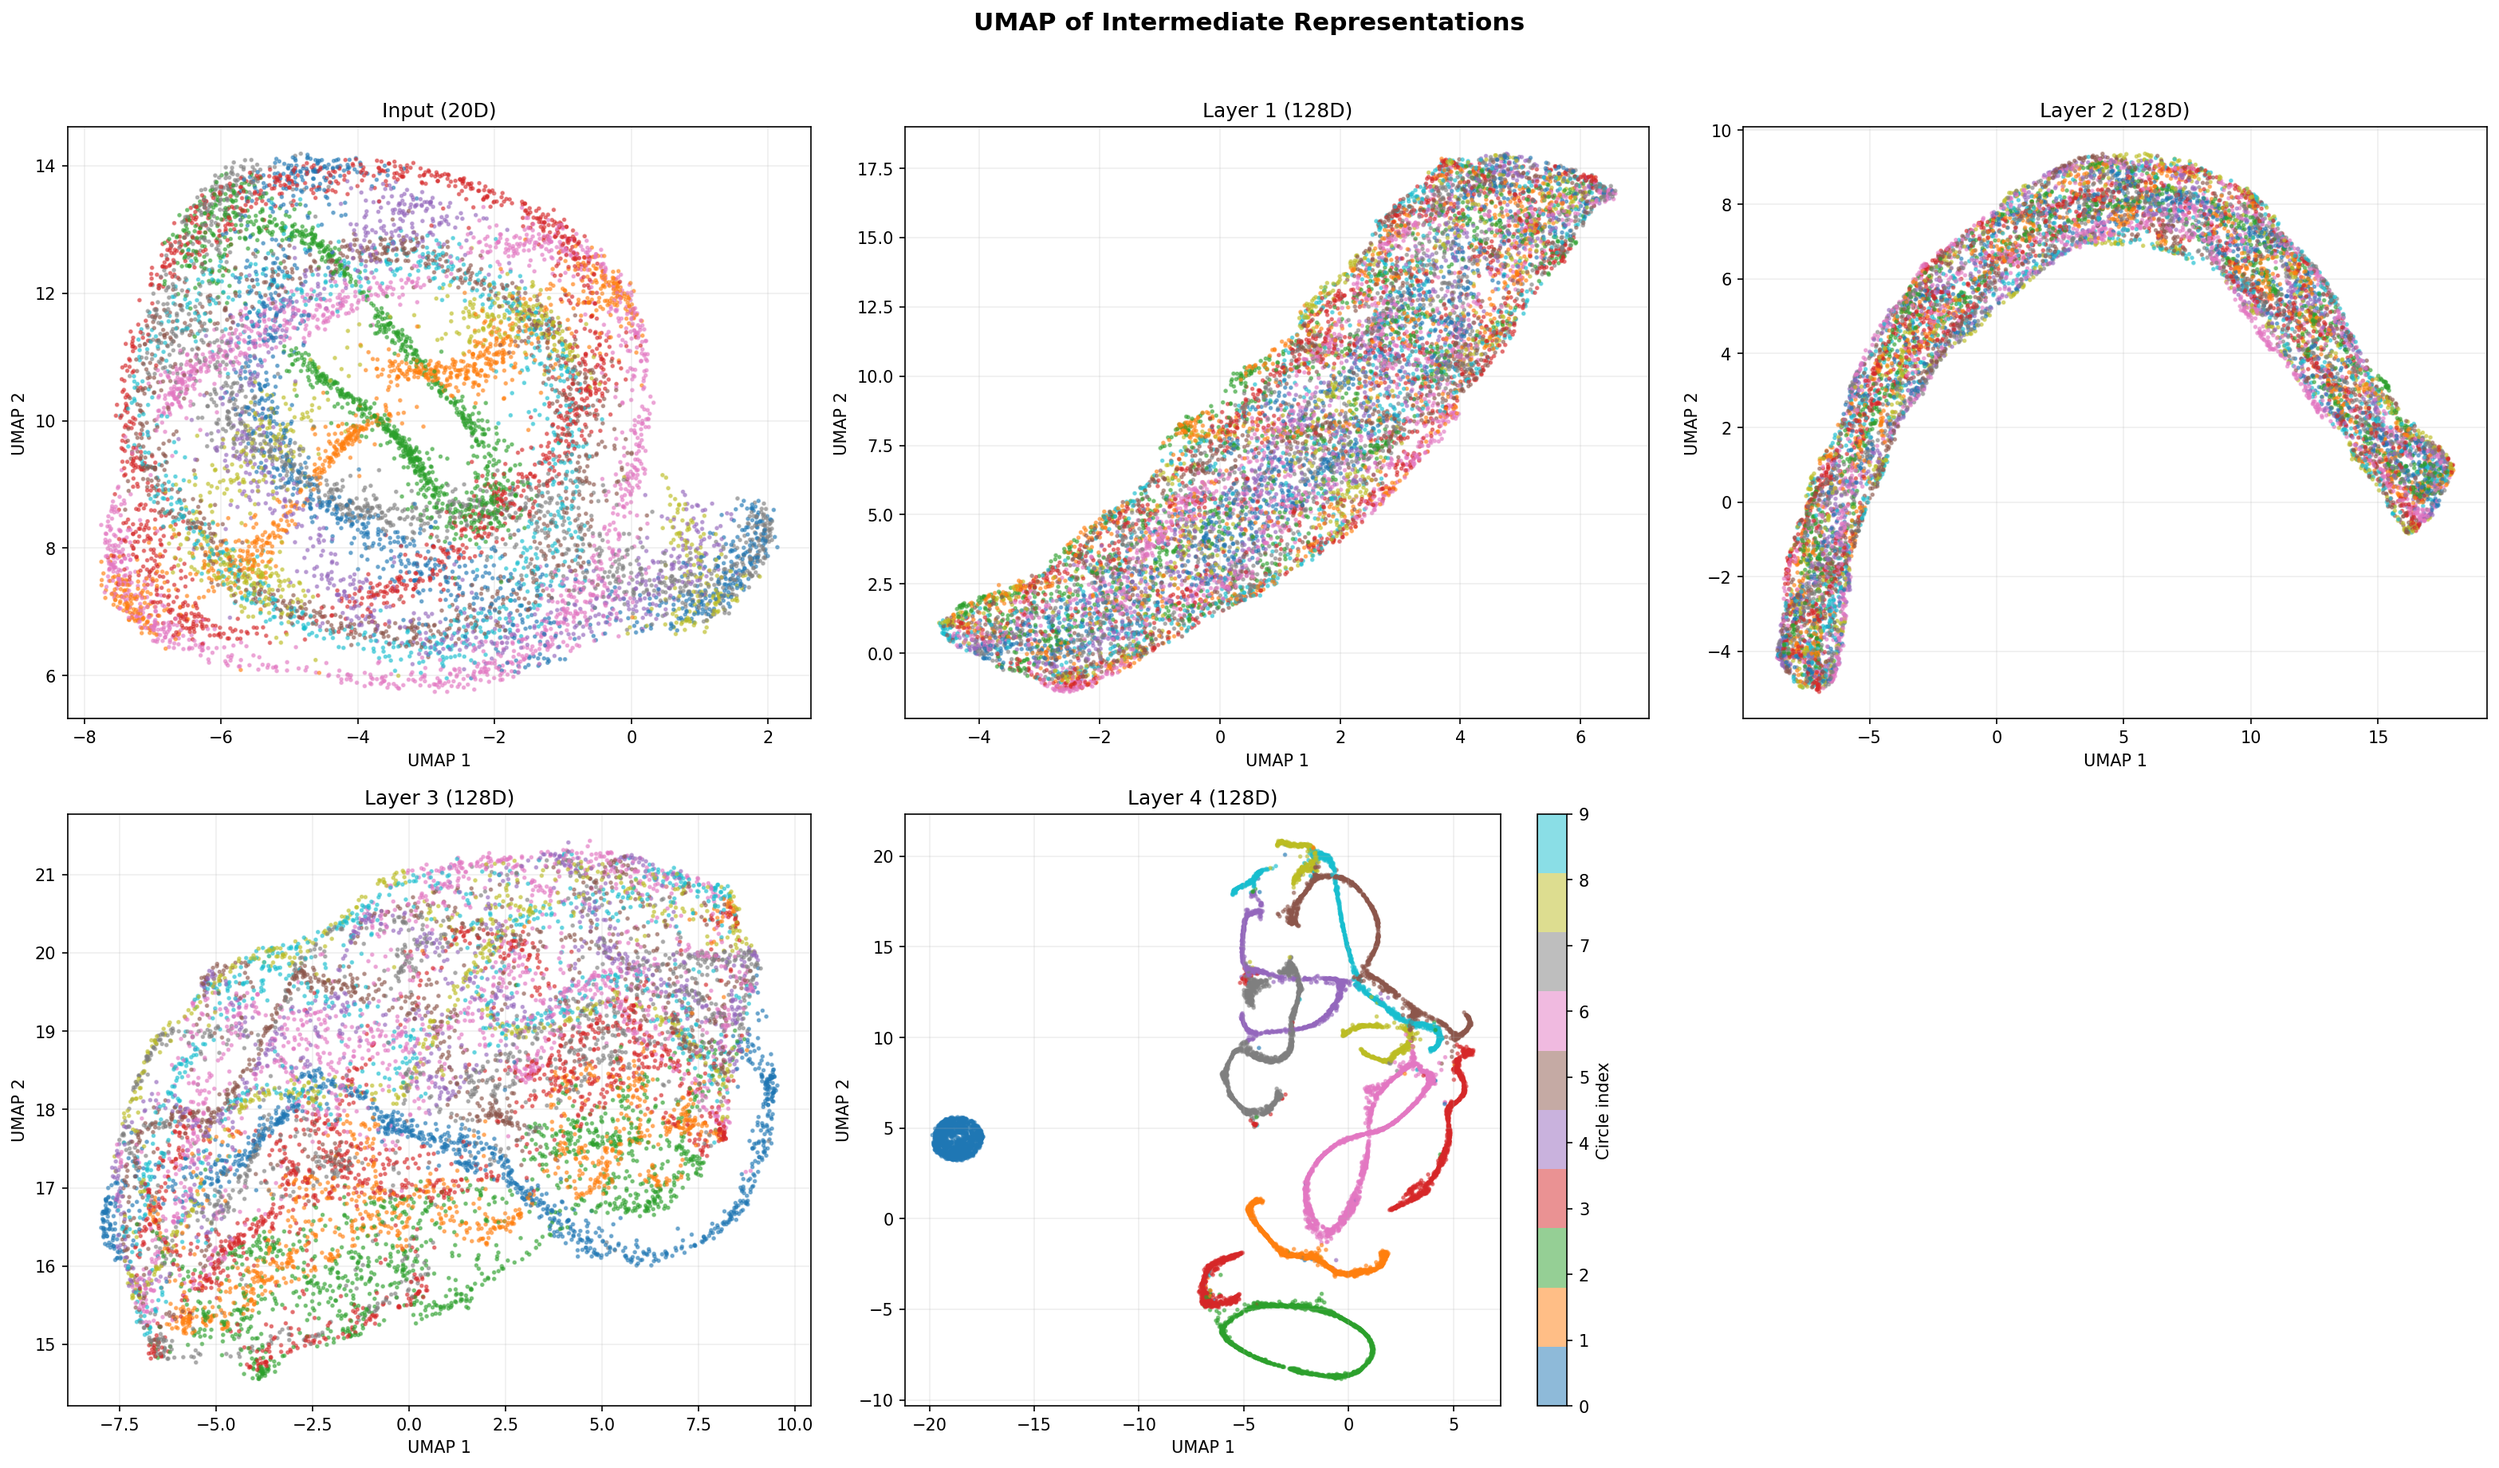
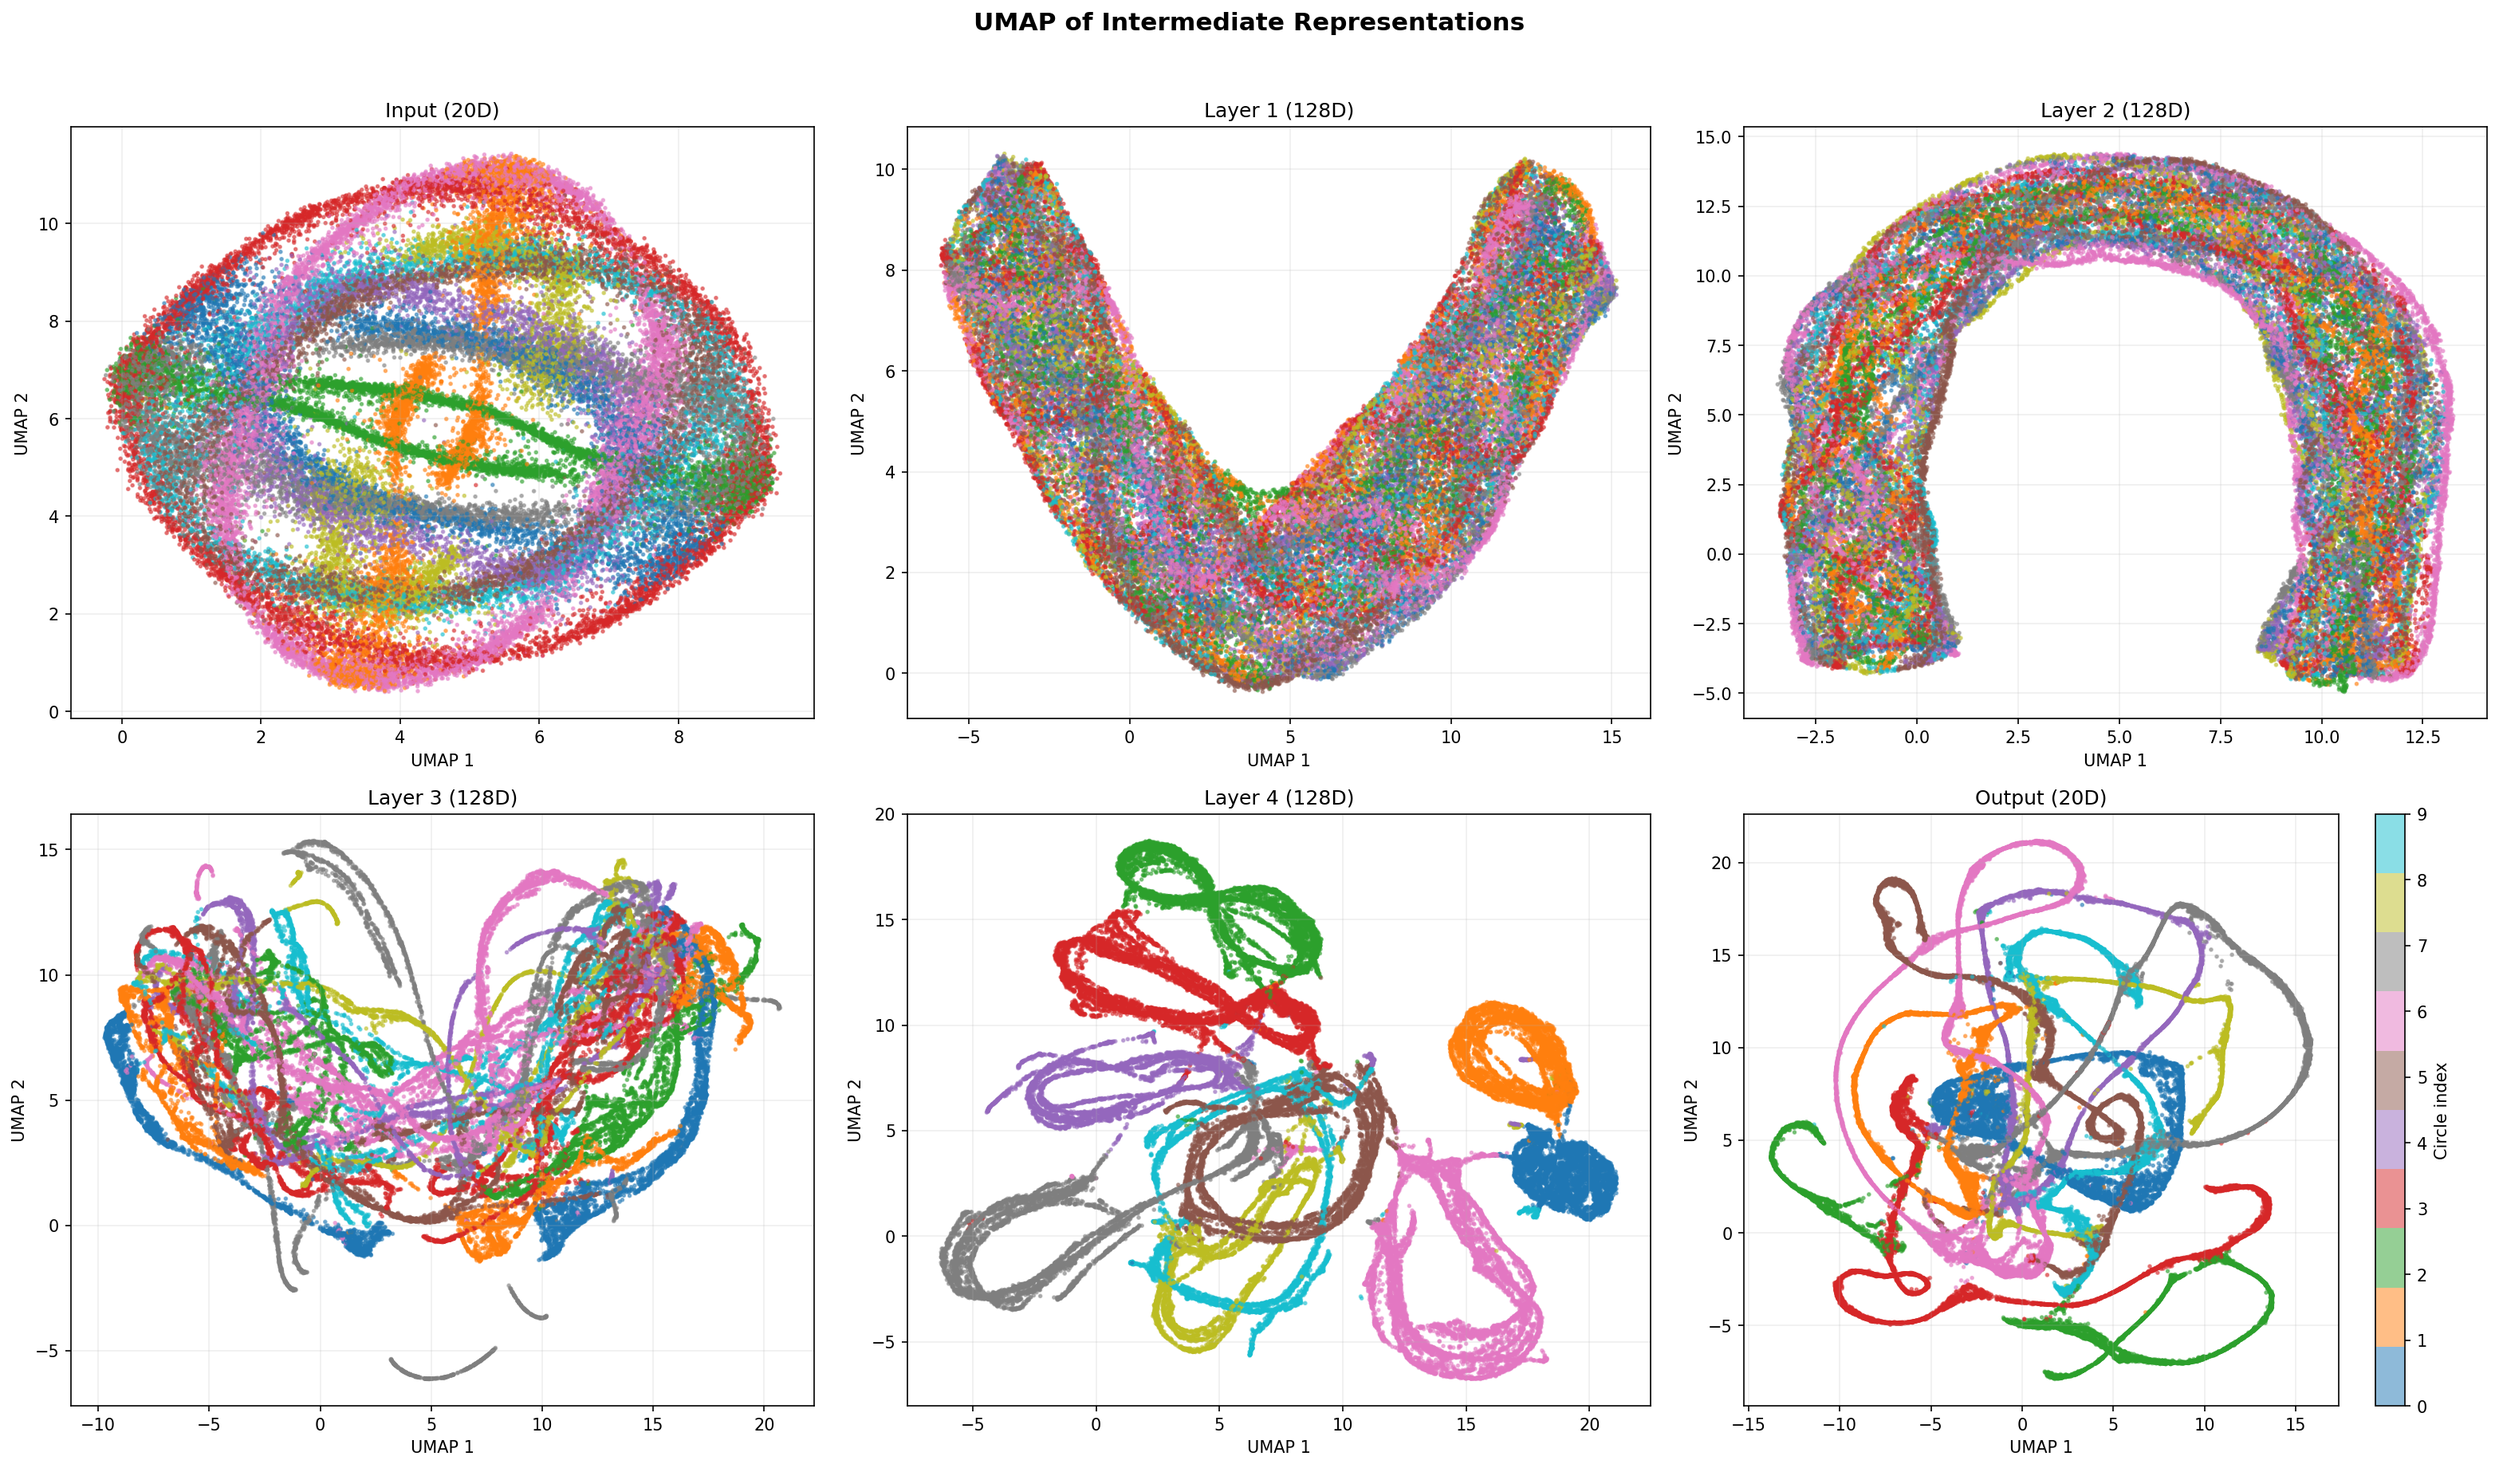
Add output projection head to representation UMAP
The model.encode() method now returns encoder layer outputs plus the
final output projection (denoised 20D reconstruction). The UMAP plot
includes all 6 panels: input, 4 encoder layers, and output head.
Re-rendered with 50k points for denser visualisation.

diff --git a/evaluate_representations.py b/evaluate_representations.py
@@ -72,8 +72,8 @@ def extract_representations(model, X, device, batch_size=64, seq_len=512):
           f"= {n_used} / {n_steps} time steps")
 
     # Process in batches
-    n_layers = len(model.transformer.layers)
-    all_layers = [[] for _ in range(n_layers)]
+    # encode() returns n_encoder_layers + 1 (output projection)
+    all_layers = None
 
     for start in range(0, n_windows, batch_size):
         end = min(start + batch_size, n_windows)
@@ -88,8 +88,11 @@ def extract_representations(model, X, device, batch_size=64, seq_len=512):
 
         layer_outputs = model.encode(x_batch)
 
+        if all_layers is None:
+            all_layers = [[] for _ in range(len(layer_outputs))]
+
         for i, lo in enumerate(layer_outputs):
-            # lo: (batch, seq_len, d_model) → flatten to (batch*seq_len, d_model)
+            # lo: (batch, seq_len, dim) → flatten to (batch*seq_len, dim)
             all_layers[i].append(lo.cpu().numpy().reshape(-1, lo.shape[-1]))
 
     layer_reps = [np.concatenate(chunks, axis=0) for chunks in all_layers]
@@ -138,10 +141,14 @@ def main():
         model, X, device, batch_size=64, seq_len=seq_len,
     )
     states_used = states[:n_used]
-    n_layers = len(layer_reps)
+    # Last entry is the output projection (feature_dim D), rest are encoder
+    # layers (d_model D)
+    n_encoder_layers = len(layer_reps) - 1
+    n_all = len(layer_reps)
 
-    print(f"Extracted {n_layers} layer representations, "
-          f"each {layer_reps[0].shape}")
+    print(f"Extracted {n_encoder_layers} encoder layers + output projection")
+    print(f"  Encoder layers: {layer_reps[0].shape}")
+    print(f"  Output projection: {layer_reps[-1].shape}")
 
     # ---- Subsample for UMAP ----
     rng = np.random.default_rng(42)
@@ -170,19 +177,22 @@ def main():
         lb_str = '  '.join(f'k={k}: {lb_raw[k]:.2f}' for k in lb_ks)
         print(f"  Input (20D):   {lb_str}")
 
-        # Each layer
-        for layer_i in range(n_layers):
+        # Each layer + output
+        for layer_i in range(n_all):
             rep_lb = layer_reps[layer_i][lb_idx]
             lb_layer = {}
             for k in lb_ks:
                 m, _ = levina_bickel_estimator(rep_lb, k)
                 lb_layer[k] = m
-            lb_results[f'layer_{layer_i+1}'] = lb_layer
+            key = f'layer_{layer_i+1}' if layer_i < n_encoder_layers else 'output'
+            lb_results[key] = lb_layer
             lb_str = '  '.join(f'k={k}: {lb_layer[k]:.2f}' for k in lb_ks)
-            print(f"  Layer {layer_i+1} ({rep_lb.shape[1]}D):  {lb_str}")
+            label = (f'Layer {layer_i+1}' if layer_i < n_encoder_layers
+                     else 'Output')
+            print(f"  {label} ({rep_lb.shape[1]}D):  {lb_str}")
 
-    # ---- UMAP for each layer + raw input ----
-    n_panels = n_layers + 1  # raw input + each layer
+    # ---- UMAP for raw input + each layer + output ----
+    n_panels = n_all + 1  # raw input + encoder layers + output projection
     n_cols = min(n_panels, 3)
     n_rows = (n_panels + n_cols - 1) // n_cols
 
@@ -191,12 +201,14 @@ def main():
         axes = np.array([axes])
     axes = axes.flatten()
 
-    panels = [('Input (20D)', X[idx].astype(np.float32))]
-    for i in range(n_layers):
+    panels = [('Input (20D)', X[idx].astype(np.float32), 'input')]
+    for i in range(n_encoder_layers):
         panels.append((f'Layer {i+1} ({layer_reps[i].shape[1]}D)',
-                        layer_reps[i][idx]))
+                        layer_reps[i][idx], f'layer_{i+1}'))
+    panels.append((f'Output ({layer_reps[-1].shape[1]}D)',
+                    layer_reps[-1][idx], 'output'))
 
-    for ax_i, (title, data) in enumerate(panels):
+    for ax_i, (title, data, lb_key) in enumerate(panels):
         print(f"Computing UMAP for {title}...")
         reducer = umap.UMAP(n_neighbors=args.umap_neighbors, min_dist=0.3,
                             metric='euclidean', random_state=42)
@@ -209,9 +221,8 @@ def main():
         ax.set_ylabel('UMAP 2')
 
         # Add LB info to title if available
-        key = 'input' if ax_i == 0 else f'layer_{ax_i}'
-        if key in lb_results:
-            lb30 = lb_results[key].get(30, None)
+        if lb_key in lb_results:
+            lb30 = lb_results[lb_key].get(30, None)
             if lb30 is not None:
                 title += f'  (LB k=30: {lb30:.1f})'
         ax.set_title(title, fontsize=12)

diff --git a/masked_model.py b/masked_model.py
@@ -161,7 +161,8 @@ class MaskedTimeSeriesBERT(nn.Module):
     def encode(self, x):
         """
         Run input through the model *without masking* and return the
-        intermediate representation at every transformer layer.
+        intermediate representation at every transformer layer, plus
+        the final output projection (denoised reconstruction).
 
         Parameters
         ----------
@@ -169,10 +170,11 @@ class MaskedTimeSeriesBERT(nn.Module):
 
         Returns
         -------
-        layer_outputs : list of (batch, seq_len, d_model)
-            One tensor per transformer layer (len = n_layers).
-            layer_outputs[0] is after the first encoder layer,
-            layer_outputs[-1] is the final encoder output.
+        layer_outputs : list of tensors
+            - layer_outputs[0..n_layers-1]: (batch, seq_len, d_model)
+              after each transformer encoder layer.
+            - layer_outputs[n_layers]: (batch, seq_len, feature_dim)
+              after the output projection head (the reconstruction).
         """
         h = self.input_proj(x)
         h = self.pos_enc(h)
@@ -181,6 +183,9 @@ class MaskedTimeSeriesBERT(nn.Module):
         for layer in self.transformer.layers:
             h = layer(h)
             layer_outputs.append(h)
+
+        # Output projection (denoised reconstruction)
+        layer_outputs.append(self.output_proj(h))
 
         return layer_outputs
 

diff --git a/README.md b/README.md
@@ -120,7 +120,9 @@ python evaluate_representations.py --checkpoint bert_model.pt
 
 **Layer 3–4:** The deeper layers learn increasingly structured representations. The model discovers a lower-dimensional organisation of the 10 circles, clustering points by their circle identity and phase — exactly the information needed to predict masked patches.
 
-The progression from input to layer 4 shows the transformer learning to untangle the overlapping circles into a cleaner geometric structure, despite never being given explicit circle labels during training.
+**Output (20D):** The final output projection head maps the 128D internal representation back to the original 20D feature space. This is the denoised reconstruction — the same signal used to compute MSE loss against the ground truth during training. Comparing this panel to the Input panel shows the model has learned to clean up noise and sharpen circle structure.
+
+The progression from Input → Layer 4 → Output shows the transformer learning to untangle the overlapping circles into a cleaner geometric structure, then projecting back to the original space, despite never being given explicit circle labels during training.
 
 ## Scripts
 
